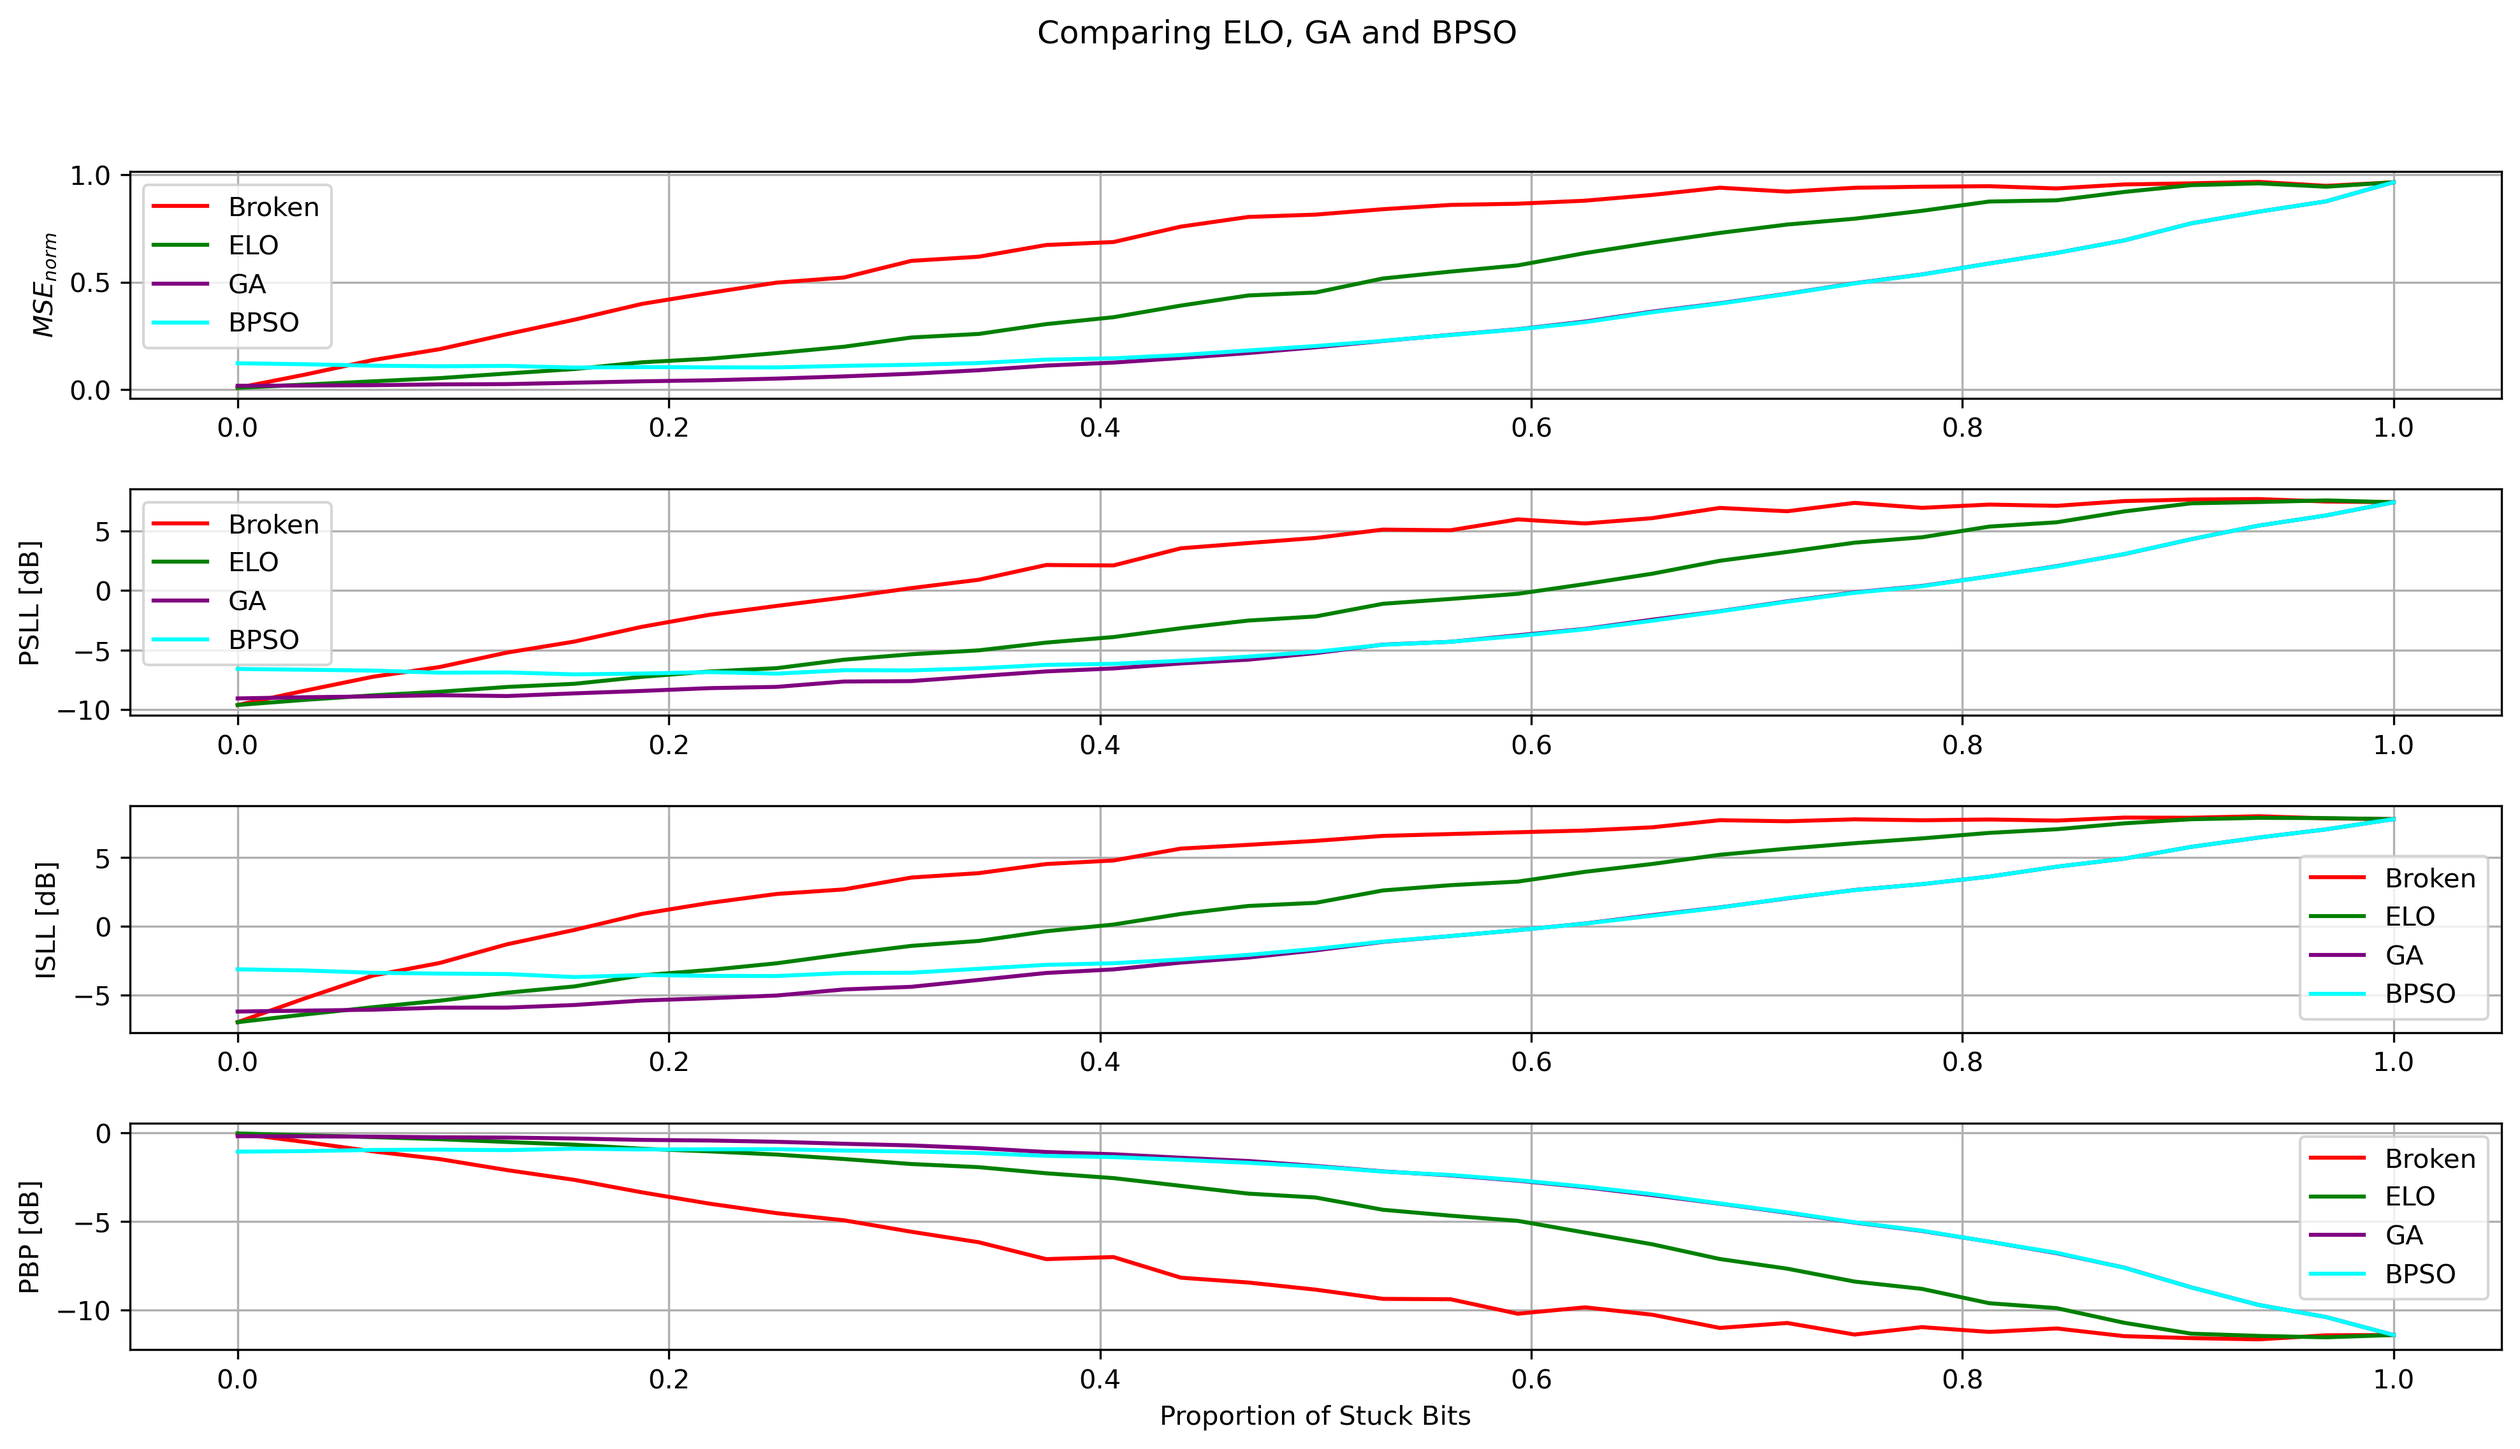
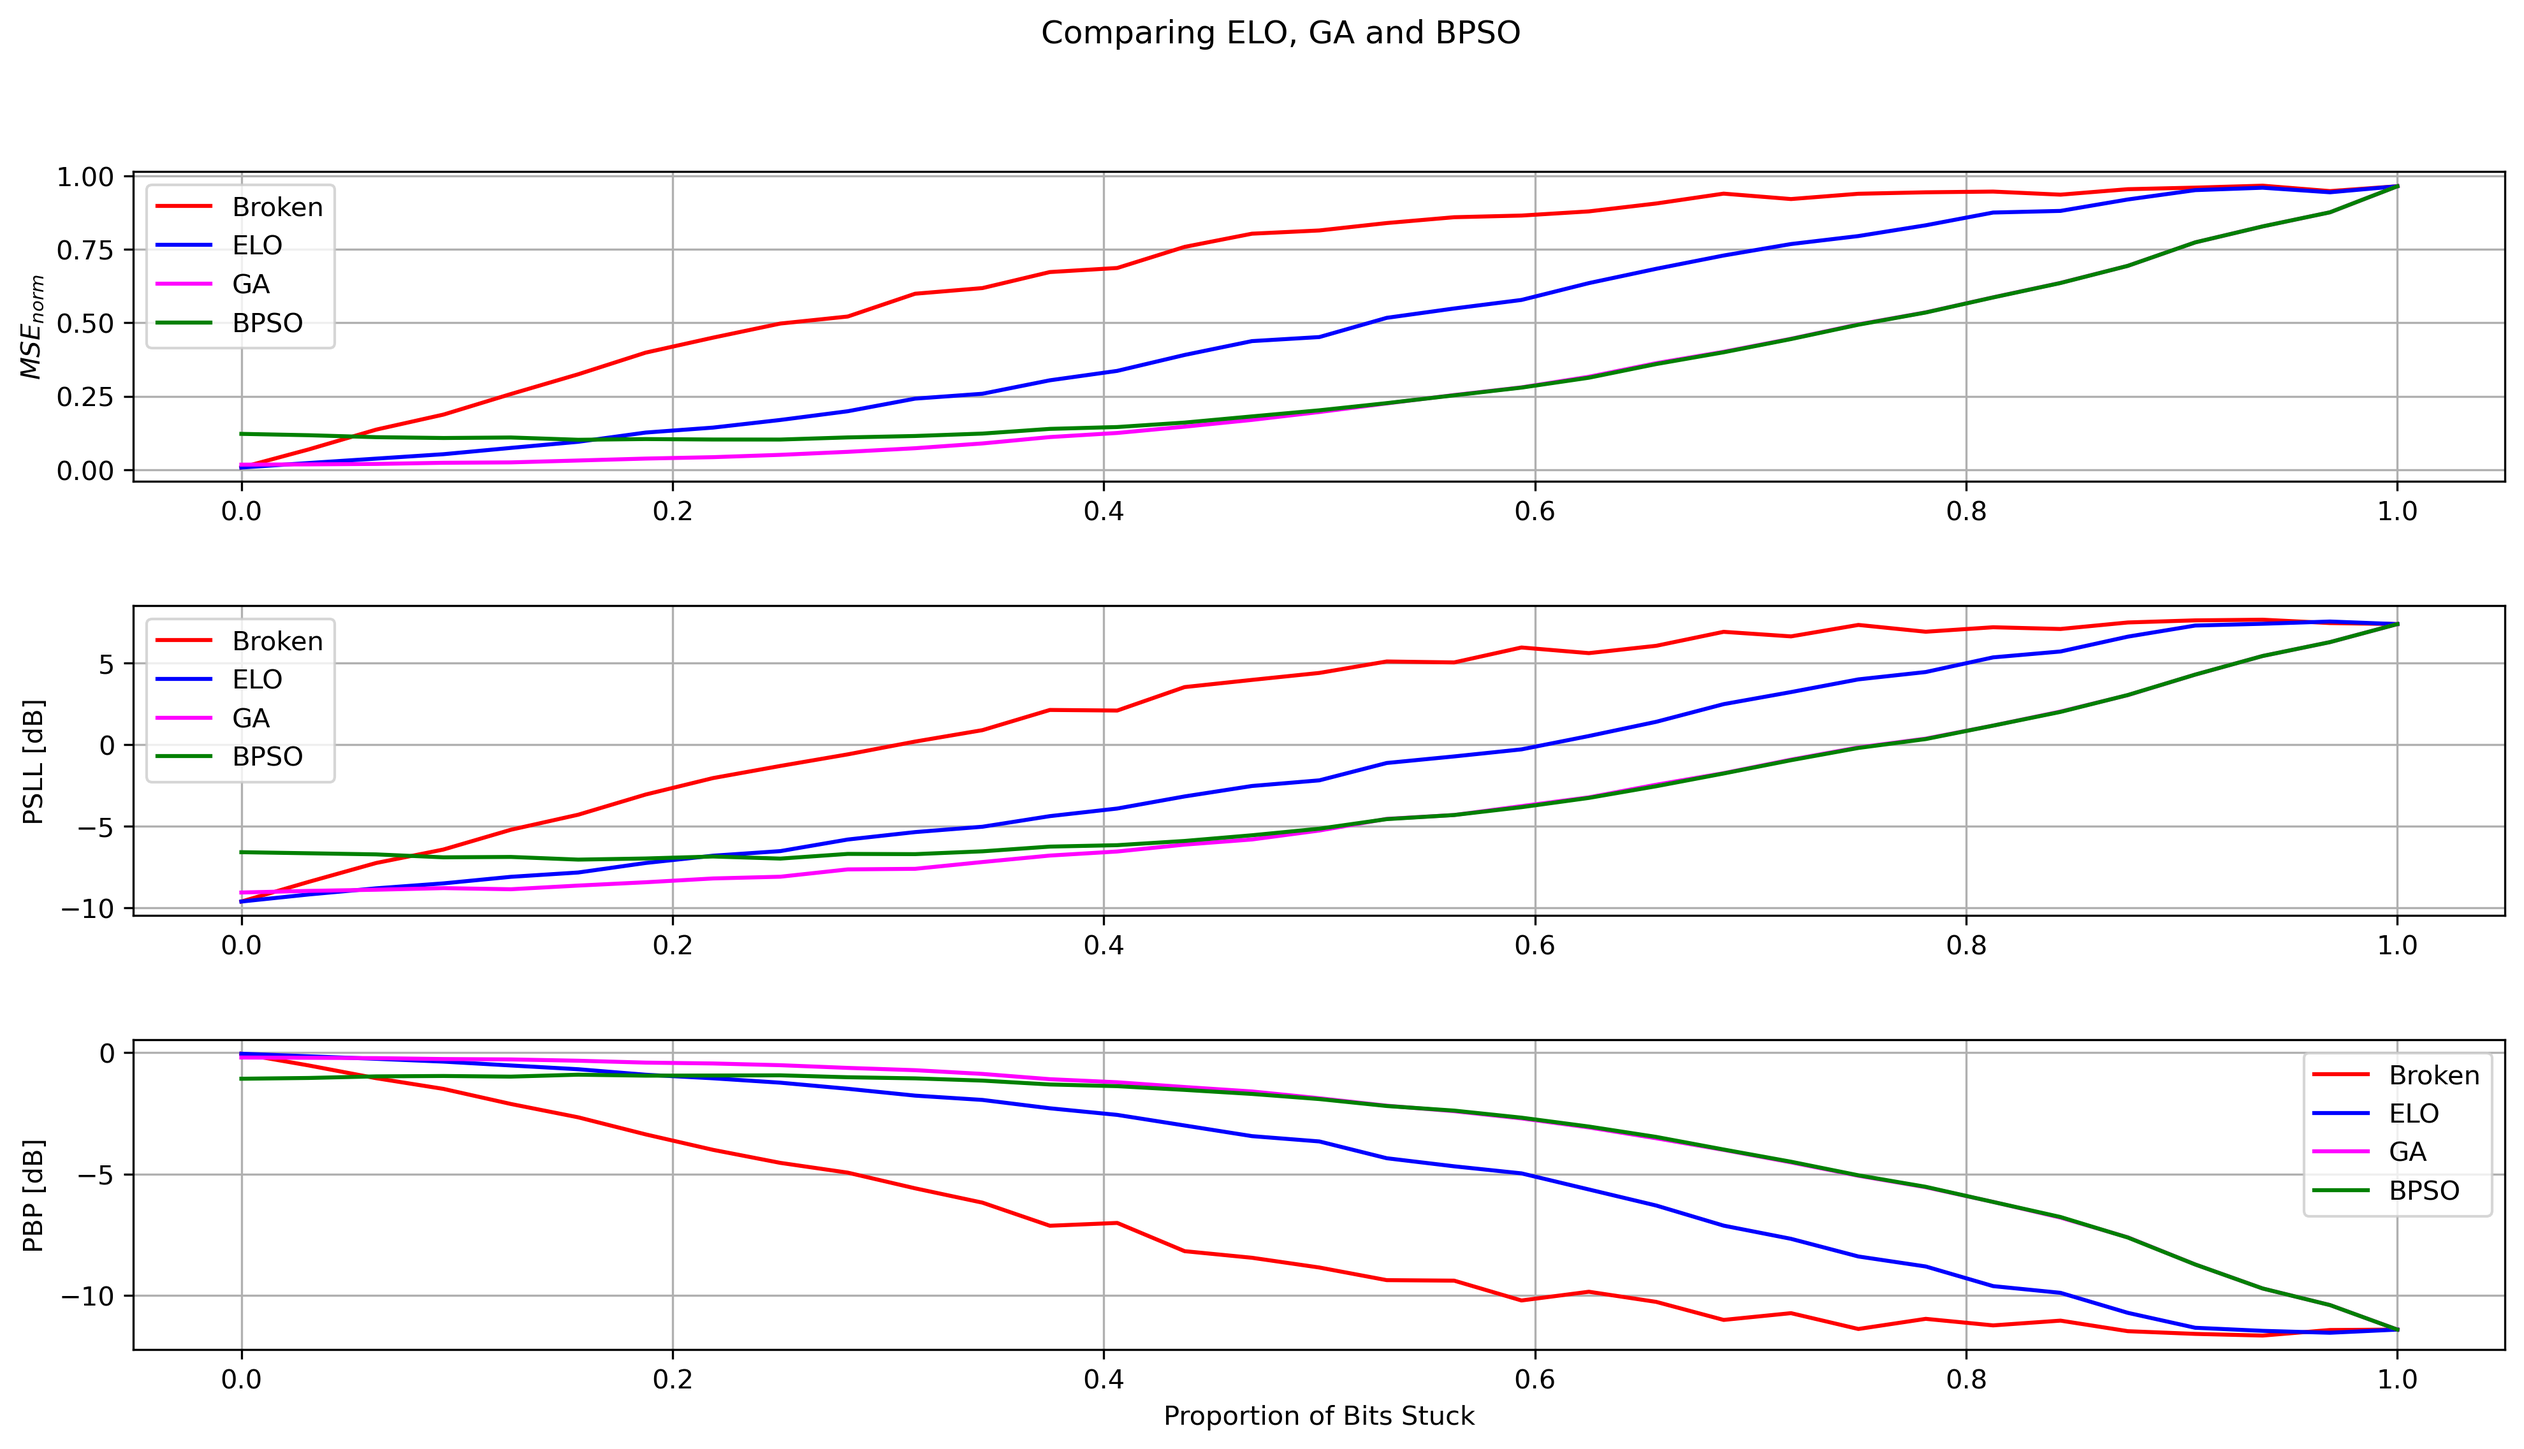
all sims complete.\

diff --git a/sim8_steering_sweep_all_optim.py b/sim8_steering_sweep_all_optim.py
@@ -18,7 +18,7 @@ broken_elements, broken_bits, broken_values = au.random_select_broken_bits(n_ele
 
 
 # --- Animation setup ---
-steering_angles = np.linspace(-90, 90, 61)  # Steering angles from -90° to +90°
+steering_angles = np.linspace(-60, 60, 61)  # Steering angles from -90° to +90°
 n_frames = len(steering_angles)  # Number of frames in the animation
 scan_deg = np.arange(-90, 91)  # Scan angles from -90° to +90°
 scan_rad = np.radians(scan_deg)
@@ -44,8 +44,8 @@ steer_line = ax.plot([], [], color='k', lw=1, ls='--')[0]
 line_ideal = ax.plot([], [], lw=1, color='k', label="ideal")[0]
 #line_quant = ax.plot([], [], lw=1, color='c', label="quantised")[0]
 line_broke = ax.plot([], [], lw=1, color='r', label="broken")[0]
-line_elop = ax.plot([], [], lw=1, color='b', label="ELOP")[0]
-line_ga = ax.plot([], [], lw=1, color='m', label="GA")[0]
+#line_elop = ax.plot([], [], lw=1, color='b', label="ELO")[0]
+#line_ga = ax.plot([], [], lw=1, color='m', label="GA")[0]
 line_bpso = ax.plot([], [], lw=1, color='g', label="BPSO")[0]
 text = ax.text(0.05, 0.35, '', transform=ax.transAxes, fontsize=12, color='k')
 
@@ -65,8 +65,8 @@ dB_list = np.linspace(-50, 0, 100)  # dB scale
 dB_ideal = ax2.plot([], [], lw=1, color='k', label="ideal")[0]
 #dB_quant = ax2.plot([], [], lw=1, color='c', label="quantised")[0]
 dB_broke = ax2.plot([], [], lw=1, color='r', label="broken")[0]
-dB_elop = ax2.plot([], [], lw=1, color='b', label="ELOP")[0]
-dB_ga = ax2.plot([], [], lw=1, color='m', label="GA")[0]
+#dB_elop = ax2.plot([], [], lw=1, color='b', label="ELO")[0]
+#dB_ga = ax2.plot([], [], lw=1, color='m', label="GA")[0]
 dB_bpso = ax2.plot([], [], lw=1, color='g', label="BPSO")[0]
 steer_line2 = ax2.plot([], [], color='k', lw=1, ls='--')[0]
 
@@ -75,8 +75,8 @@ def init():
     line_ideal.set_data([], [])
     #line_quant.set_data([], [])
     line_broke.set_data([], [])
-    line_elop.set_data([], [])
-    line_ga.set_data([], [])
+    #line_elop.set_data([], [])
+    #line_ga.set_data([], [])
     line_bpso.set_data([], [])
     text.set_text('')
     steer_line.set_data([], [])
@@ -84,16 +84,24 @@ def init():
     dB_ideal.set_data([], [])
     #dB_quant.set_data([], [])
     dB_broke.set_data([], [])
-    dB_elop.set_data([], [])
-    dB_ga.set_data([], [])
+    #dB_elop.set_data([], [])
+    #dB_ga.set_data([], [])
     dB_bpso.set_data([], [])
     steer_line2.set_data([], [])
     return [line_ideal, 
             #line_quant, 
-            line_broke, line_elop, line_ga, line_bpso, text, steer_line,
+            line_broke, 
+            #line_elop, 
+            #line_ga, 
+            line_bpso, 
+            text, steer_line,
             dB_ideal, 
             #dB_quant, 
-            dB_broke, dB_elop, dB_ga, dB_bpso, steer_line2]
+            dB_broke, 
+            #dB_elop, 
+            #dB_ga, 
+            dB_bpso, 
+            steer_line2]
 
 def animate(i):
     # i is the frame number
@@ -114,32 +122,32 @@ def animate(i):
     elop_phase_list = au.bit_array_to_phase_list(elop_bit_array)
     af_broke = au.phase_list_to_af_list(broken_phase_list, scan_rad)
     af_elop = au.phase_list_to_af_list(elop_phase_list, scan_rad)
-
+    '''
     best_ga = ga.genetic_algorithm(af_ideal, scan_rad, steering_angle_rad, beamwidth_rad, broken_elements, broken_bits, broken_values)
     ga_bit_array = ga.list_to_bit_array(best_ga)
     ga_broken_bit_array = au.break_bit_array(ga_bit_array, broken_elements, broken_bits, broken_values)
     ga_broken_phase_list = au.bit_array_to_phase_list(ga_broken_bit_array)
     af_ga = au.phase_list_to_af_list(ga_broken_phase_list, scan_rad)
-
+    '''
     best_bpso, _ = bp.binary_pso(af_ideal, scan_rad, steering_angle_rad, beamwidth_rad, broken_elements, broken_bits, broken_values)
     bpso_bit_array = bp.list_to_bit_array(best_bpso)
     bpso_broken_bit_array = au.break_bit_array(bpso_bit_array, broken_elements, broken_bits, broken_values)
     bpso_broken_phase_list = au.bit_array_to_phase_list(bpso_broken_bit_array)
     af_bpso = au.phase_list_to_af_list(bpso_broken_phase_list, scan_rad)
-
+    
     #loss_quant = au.normalised_SE(af_ideal, af_quant)
     loss_broken = au.normalised_SE(af_ideal, af_broke)
-    loss_elop = au.normalised_SE(af_ideal, af_elop)
-    loss_ga = au.normalised_SE(af_ideal, af_ga)
+    #loss_elop = au.normalised_SE(af_ideal, af_elop)
+    #loss_ga = au.normalised_SE(af_ideal, af_ga)
     loss_bpso = au.normalised_SE(af_ideal, af_bpso)
-    loss_text = f"$MSE_{{broken}}$: {loss_broken:.2f}\n$MSE_{{ELOP}}$: {loss_elop:.2f}\n$MSE_{{GA}}$: {loss_ga:.2f}\n$MSE_{{BPSO}}$: {loss_bpso:.2f}"
+    loss_text = f"$MSE_{{broken}}$: {loss_broken:.2f}\n$MSE_{{BPSO}}$: {loss_bpso:.2f}\n"
 
     # Update the polar plot
     line_ideal.set_data(scan_rad, af_ideal)
     #line_quant.set_data(scan_rad, af_quant)
     line_broke.set_data(scan_rad, af_broke)
-    line_elop.set_data(scan_rad, af_elop)
-    line_ga.set_data(scan_rad, af_ga)
+    #line_elop.set_data(scan_rad, af_elop)
+    #line_ga.set_data(scan_rad, af_ga)
     line_bpso.set_data(scan_rad, af_bpso)
 
     # steering line
@@ -149,14 +157,14 @@ def animate(i):
     af_ideal_dB = au.amplitude_to_dB_list(af_ideal)
     #af_quant_dB = au.amplitude_to_dB_list(af_quant)
     af_broke_dB = au.amplitude_to_dB_list(af_broke)
-    af_elop_dB = au.amplitude_to_dB_list(af_elop)
-    af_ga_dB = au.amplitude_to_dB_list(af_ga)
+    #af_elop_dB = au.amplitude_to_dB_list(af_elop)
+    #af_ga_dB = au.amplitude_to_dB_list(af_ga)
     af_bpso_dB = au.amplitude_to_dB_list(af_bpso)
     dB_ideal.set_data(scan_deg, af_ideal_dB)
     #dB_quant.set_data(scan_deg, af_quant_dB)
     dB_broke.set_data(scan_deg, af_broke_dB)
-    dB_elop.set_data(scan_deg, af_elop_dB)
-    dB_ga.set_data(scan_deg, af_ga_dB)
+    #dB_elop.set_data(scan_deg, af_elop_dB)
+    #dB_ga.set_data(scan_deg, af_ga_dB)
     dB_bpso.set_data(scan_deg, af_bpso_dB)
     # steering line
     steer_line2.set_data(np.full_like(dB_list, steering_angle_deg), dB_list)
@@ -170,10 +178,18 @@ def animate(i):
     ax.set_title(f"{n_stuck} bits stuck, Steering Angle: {steering_angle_deg:.1f}°", va='bottom', pad=30)
     return [line_ideal, 
             #line_quant, 
-            line_broke, line_elop, line_ga, line_bpso, text, steer_line,
+            line_broke, 
+            #line_elop, 
+            #line_ga, 
+            line_bpso, 
+            text, steer_line,
             dB_ideal, 
             #dB_quant, 
-            dB_broke, dB_elop, dB_ga, dB_bpso, steer_line2]
+            dB_broke, 
+            #dB_elop, 
+            #dB_ga, 
+            dB_bpso, 
+            steer_line2]
 
 ani = animation.FuncAnimation(
     # interval is the time between frames in milliseconds
@@ -182,5 +198,5 @@ ani = animation.FuncAnimation(
 )
 
 # To save as a gif: 
-ani.save(f"visuals\\optim_compare_{n_stuck}_bits_stuck.gif", writer='pillow')
+ani.save(f"visuals\\BPSO_{n_stuck}_bits_stuck.gif", writer='pillow')
 #plt.show()

diff --git a/plot_elo_ga_bpso_sweep.py b/plot_elo_ga_bpso_sweep.py
@@ -20,7 +20,7 @@ avg_nse_broken,avg_nse_elo,avg_nse_ga,avg_nse_bpso,avg_pssl_broken,avg_pssl_elo,
 '''
 folder = 'ult_eval_msb'
 file_names = [f'ga_elo_bpso_compare_{i}.csv' for i in range(1, 9)]
-output_file_name = 'visuals\\ga_elo_bpso_compare_average_msb.png'
+output_file_name = 'visuals\\ga_elo_bpso_compare_msb.png'
 
 data_frames = []
 for file_name in file_names:
@@ -50,8 +50,55 @@ avg_isll_elo_list = average_df['avg_isll_elo'].to_numpy()
 avg_isll_ga_list = average_df['avg_isll_ga'].to_numpy()
 avg_isll_bpso_list = average_df['avg_isll_bpso'].to_numpy()
 
+
+file_names = [f'ga_elo_bpso_compare_{i}.csv' for i in range(11, 19)]
+data_frames = []
+for file_name in file_names:
+    file_path = f'{folder}\\{file_name}'
+    df = pd.read_csv(file_path)
+    data_frames.append(df)
+# Combine all data frames into one
+average_df = sum(data_frames) / len(data_frames)
+#stuck_bits = average_df["Unnamed: 0"].to_numpy()
+#stuck_bits = stuck_bits / total_bits  # Normalise stuck bits to be between 0 and 1
+tail_nse_broken_list = average_df['avg_nse_broken'].to_numpy()
+tail_nse_elo_list = average_df['avg_nse_elo'].to_numpy()
+tail_nse_ga_list = average_df['avg_nse_ga'].to_numpy()
+tail_nse_bpso_list = average_df['avg_nse_bpso'].to_numpy()
+tail_pssl_broken_list = average_df['avg_pssl_broken'].to_numpy()
+tail_pssl_elo_list = average_df['avg_pssl_elo'].to_numpy()
+tail_pssl_ga_list = average_df['avg_pssl_ga'].to_numpy()
+tail_pssl_bpso_list = average_df['avg_pssl_bpso'].to_numpy()
+tail_pbp_broken_list = average_df['avg_pbp_broken'].to_numpy()
+tail_pbp_elo_list = average_df['avg_pbp_elo'].to_numpy()
+tail_pbp_ga_list = average_df['avg_pbp_ga'].to_numpy()
+tail_pbp_bpso_list = average_df['avg_pbp_bpso'].to_numpy()
+tail_isll_broken_list = average_df['avg_isll_broken'].to_numpy()
+tail_isll_elo_list = average_df['avg_isll_elo'].to_numpy()
+tail_isll_ga_list = average_df['avg_isll_ga'].to_numpy()
+tail_isll_bpso_list = average_df['avg_isll_bpso'].to_numpy()
+
+avg_nse_broken_list[-2:] = tail_nse_broken_list
+avg_nse_elo_list[-2:] = tail_nse_elo_list
+avg_nse_ga_list[-2:] = tail_nse_ga_list
+avg_nse_bpso_list[-2:] = tail_nse_bpso_list
+avg_pssl_broken_list[-2:] = tail_pssl_broken_list
+avg_pssl_elo_list[-2:] = tail_pssl_elo_list
+avg_pssl_ga_list[-2:] = tail_pssl_ga_list
+avg_pssl_bpso_list[-2:] = tail_pssl_bpso_list
+avg_pbp_broken_list[-2:] = tail_pbp_broken_list
+avg_pbp_elo_list[-2:] = tail_pbp_elo_list
+avg_pbp_ga_list[-2:] = tail_pbp_ga_list
+avg_pbp_bpso_list[-2:] = tail_pbp_bpso_list
+avg_isll_broken_list[-2:] = tail_isll_broken_list
+avg_isll_elo_list[-2:] = tail_isll_elo_list
+avg_isll_ga_list[-2:] = tail_isll_ga_list
+avg_isll_bpso_list[-2:] = tail_isll_bpso_list
+
+
+
 # 3 subplots, one for NSe, one for PSSL and one for PBP
-fig, axs = plt.subplots(4, 1, figsize=(16, 8), gridspec_kw={'height_ratios': [1, 1, 1, 1]})
+fig, axs = plt.subplots(3, 1, figsize=(6, 9), gridspec_kw={'height_ratios': [1, 1, 1]})
 fig.suptitle(f"Comparing ELO, GA and BPSO")
 fig.subplots_adjust(hspace=0.4)  # Adjust space between subplots
 #axs[0].plot(stuck_bits, avg_nse_quantised_list, label='Quantised', color='blue')
@@ -75,24 +122,24 @@ axs[1].set_ylabel('PSLL [dB]')
 axs[1].legend()
 axs[1].grid()
 #axs[2].plot(stuck_bits, avg_mb_nse_quantised_list, label='Quantised', color='blue')
-axs[2].plot(stuck_bits, avg_isll_broken_list, label='Broken', color='red')
-axs[2].plot(stuck_bits, avg_isll_elo_list, label='ELO', color='blue')
-axs[2].plot(stuck_bits, avg_isll_ga_list, label='GA', color='magenta')
-axs[2].plot(stuck_bits, avg_isll_bpso_list, label='BPSO', color='green')
+#axs[2].plot(stuck_bits, avg_isll_broken_list, label='Broken', color='red')
+#axs[2].plot(stuck_bits, avg_isll_elo_list, label='ELO', color='blue')
+#axs[2].plot(stuck_bits, avg_isll_ga_list, label='GA', color='magenta')
+#axs[2].plot(stuck_bits, avg_isll_bpso_list, label='BPSO', color='green')
 #axs[2].set_title('Main Beam islL')
 #axs[2].set_xlabel('Proportion of Stuck Bits')
-axs[2].set_ylabel('ISLL [dB]')
+#axs[2].set_ylabel('ISLL [dB]')
+#axs[2].legend()
+#axs[2].grid()
+axs[2].plot(stuck_bits, avg_pbp_broken_list, label='Broken', color='red')
+axs[2].plot(stuck_bits, avg_pbp_elo_list, label='ELO', color='blue')
+axs[2].plot(stuck_bits, avg_pbp_ga_list, label='GA', color='magenta')
+axs[2].plot(stuck_bits, avg_pbp_bpso_list, label='BPSO', color='green')
+#axs[2].set_title('PBP')
+axs[2].set_xlabel('Proportion of elements with MSB stuck')
+axs[2].set_ylabel('PBP [dB]')
 axs[2].legend()
 axs[2].grid()
-axs[3].plot(stuck_bits, avg_pbp_broken_list, label='Broken', color='red')
-axs[3].plot(stuck_bits, avg_pbp_elo_list, label='ELO', color='blue')
-axs[3].plot(stuck_bits, avg_pbp_ga_list, label='GA', color='magenta')
-axs[3].plot(stuck_bits, avg_pbp_bpso_list, label='BPSO', color='green')
-#axs[3].set_title('PBP')
-axs[3].set_xlabel('Proportion of Stuck Bits')
-axs[3].set_ylabel('PBP [dB]')
-axs[3].legend()
-axs[3].grid()
 # Save the figure
 fig.savefig(output_file_name, dpi=300, bbox_inches='tight')
 plt.show()
